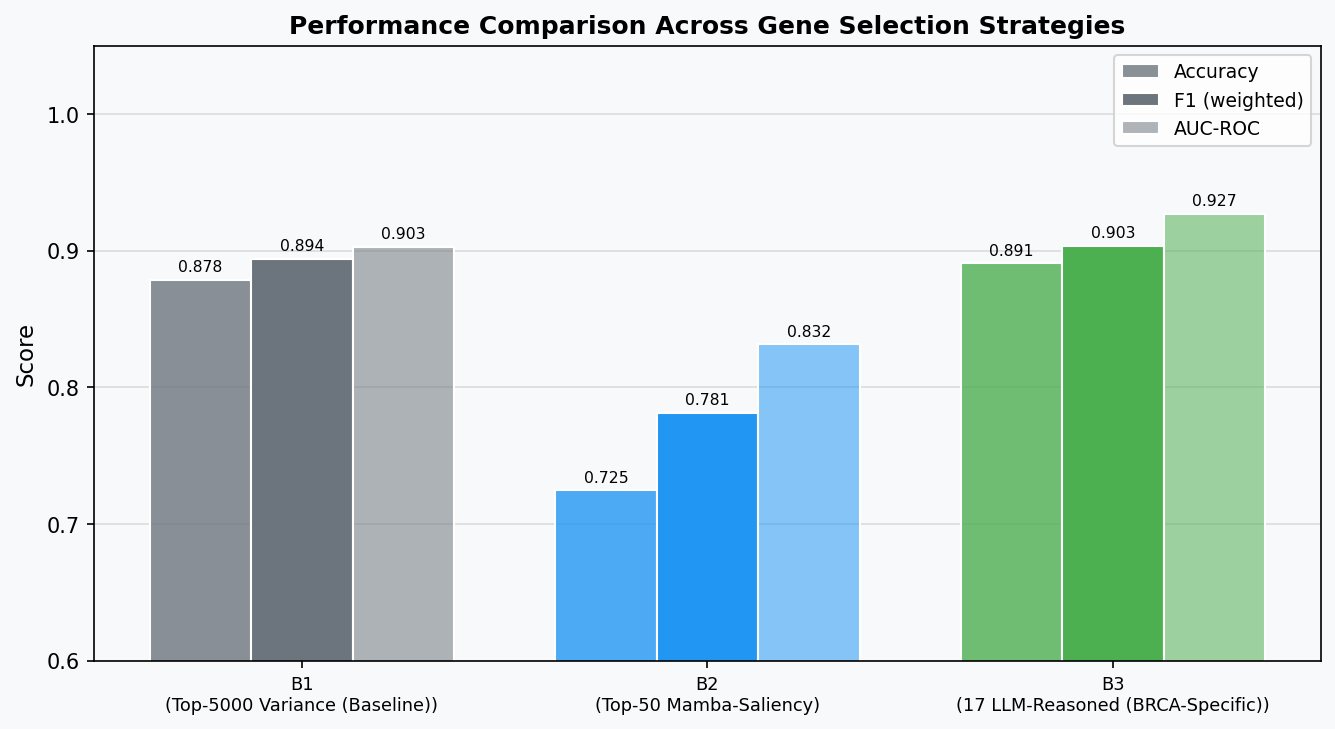
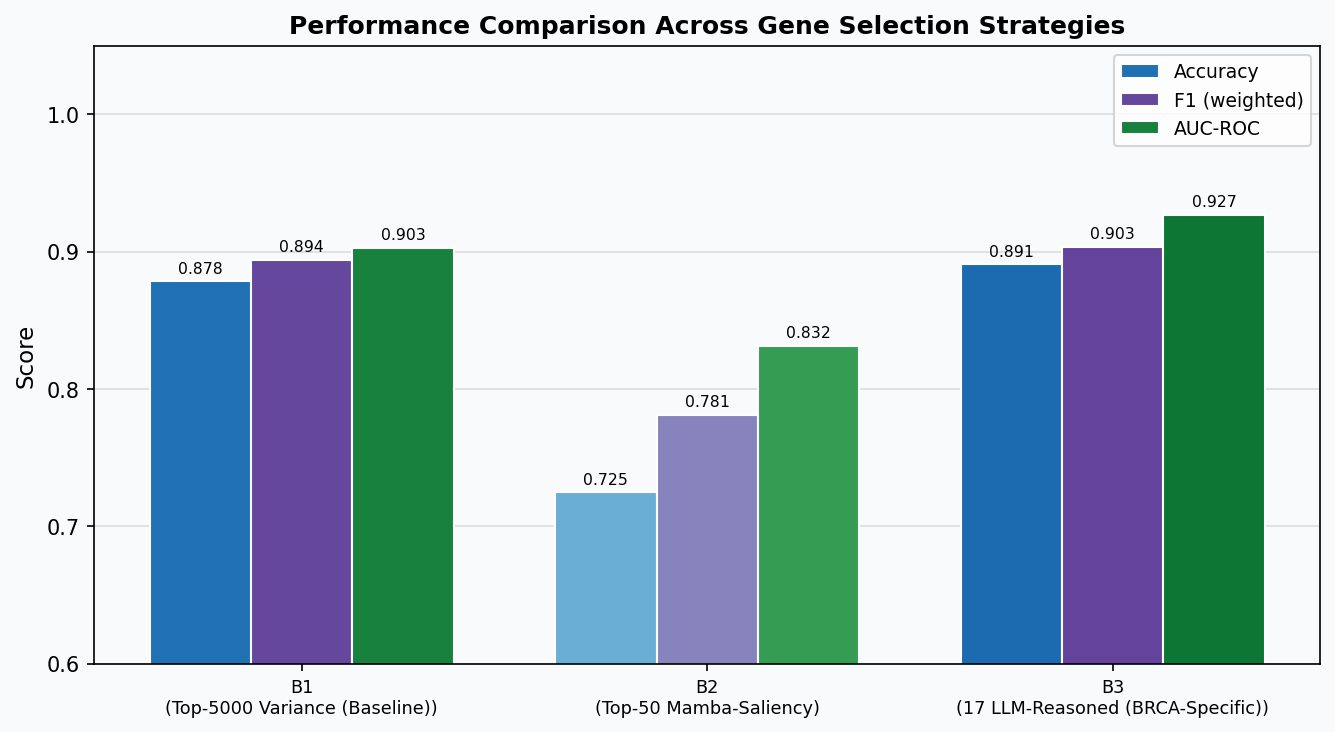
Update README and improve figures readability/styling

diff --git a/scripts/04_generate_figures.py b/scripts/04_generate_figures.py
@@ -14,6 +14,7 @@ matplotlib.use("Agg")
 import matplotlib.pyplot as plt
 import matplotlib.patches as mpatches
 import matplotlib.patheffects as pe
+from matplotlib.colors import Normalize
 import numpy as np
 
 SALIENCY_JSON  = "/data4t/projects/fs/data_processed/top_genes_saliency.json"
@@ -22,21 +23,21 @@ RESULTS_JSON   = "/data4t/projects/fs/results/comparison_results.json"
 FIG_DIR        = "/data4t/projects/fs/results/figures"
 os.makedirs(FIG_DIR, exist_ok=True)
 
-COLORS = {"B1": "#6c757d", "B2": "#2196F3", "B3": "#4CAF50"}
+COLORS = {"B1": "#64748B", "B2": "#2563EB", "B3": "#14B8A6"}
 
 
 # ─── Figure 1: Pipeline Flowchart ────────────────────────────────────────────
 def fig_pipeline():
     """Two-branch pipeline: shows LLM as a CAUSAL re-ranking step (B2 vs B3)."""
-    BW, BH = 2.3, 1.2   # box width, height
-    fig, ax = plt.subplots(figsize=(18, 9))
-    ax.set_xlim(0, 18)
-    ax.set_ylim(0, 9)
+    BW, BH = 3.1, 1.8   # box width, height (poster-large scale)
+    fig, ax = plt.subplots(figsize=(28, 14))
+    ax.set_xlim(0, 21)
+    ax.set_ylim(0, 10)
     ax.axis("off")
     ax.set_facecolor("#f0f4f8")
     fig.patch.set_facecolor("#f0f4f8")
 
-    def box(cx, cy, label, color, fs=8.5, bold=True, ec="#333", lw=1.5):
+    def box(cx, cy, label, color, fs=14, bold=True, ec="#333", lw=1.8):
         """Draw a rounded box centred at (cx, cy)."""
         p = mpatches.FancyBboxPatch(
             (cx - BW/2, cy - BH/2), BW, BH,
@@ -48,24 +49,25 @@ def fig_pipeline():
                 fontsize=fs, fontweight="bold" if bold else "normal",
                 zorder=4, multialignment="center")
 
-    def arrow(x0, y0, x1, y1, color="#333", lw=1.5, label="", label_side="bottom"):
+    def arrow(x0, y0, x1, y1, color="#333", lw=1.8, label="", label_side="bottom"):
         ax.annotate("", xy=(x1, y1), xytext=(x0, y0),
                     arrowprops=dict(arrowstyle="->", lw=lw, color=color))
         if label:
             mx, my = (x0 + x1) / 2, (y0 + y1) / 2
-            dy = -0.28 if label_side == "bottom" else 0.28
+            dy = -0.35 if label_side == "bottom" else 0.35
             dx = -0.35 if label_side == "left" else 0
             ax.text(mx + dx, my + dy, label, ha="center", va="center",
-                    fontsize=7, color="#555", style="italic")
+                    fontsize=12, color="#555", style="italic")
 
     # ── Row 1: main pipeline ──────────────────────────────────────
     # centres at y=7.0
-    Y_MAIN = 7.0
+    Y_MAIN = 7.3
     main_boxes = [
-        (1.4,  "TCGA-BRCA\nRNA-seq\n(~1100 samples,\n20 k genes)",    "#90CAF9"),
-        (4.1,  "Variance\nFilter\n(top 5 000\ngenes)",                  "#B0BEC5"),
-        (6.8,  "Mamba SSM\nClassifier\n(initial\ntraining)",            "#7986CB"),
-        (9.5,  "Gradient\nSaliency\nExtraction\n(top-50 genes)",        "#4DB6AC"),
+        (1.3,  "TCGA-BRCA\nRNA-seq\n(~1100 samples,\n20k genes)",       "#90CAF9"),
+        (3.1,  "log₂(TPM+1)\nNormalization\n(variance\nstabilisation)",  "#FFF9C4"),
+        (5.2,  "Variance\nFilter\n(top 5 000\ngenes)",                  "#B0BEC5"),
+        (7.5,  "Mamba SSM\nClassifier\n(initial\ntraining)",            "#7986CB"),
+        (10.0, "Gradient\nSaliency\nExtraction\n(top-50 genes)",        "#4DB6AC"),
     ]
     for cx, lbl, col in main_boxes:
         box(cx, Y_MAIN, lbl, col)
@@ -74,22 +76,23 @@ def fig_pipeline():
     gaps = [
         (main_boxes[0][0] + BW/2, main_boxes[1][0] - BW/2, ""),
         (main_boxes[1][0] + BW/2, main_boxes[2][0] - BW/2, ""),
-        (main_boxes[2][0] + BW/2, main_boxes[3][0] - BW/2, "saliency"),
+        (main_boxes[2][0] + BW/2, main_boxes[3][0] - BW/2, ""),
+        (main_boxes[3][0] + BW/2, main_boxes[4][0] - BW/2, "saliency"),
     ]
     for x0, x1, lbl in gaps:
         arrow(x0, Y_MAIN, x1, Y_MAIN, label=lbl)
 
     # ── Fork from saliency box ────────────────────────────────────
-    X_FORK = main_boxes[3][0] + BW/2    # right edge of saliency box ≈ 10.65
-    Y_B2   = 4.8
-    Y_B3   = 2.2
+    X_FORK = main_boxes[4][0] + BW/2    # right edge of saliency box ≈ 11.55
+    Y_B2   = 5.0
+    Y_B3   = 2.4
 
     # vertical splitter line
     ax.plot([X_FORK + 0.5, X_FORK + 0.5], [Y_B3, Y_MAIN],
-            color="#777", lw=1.4, ls="--", zorder=2)
+            color="#777", lw=1.7, ls="--", zorder=2)
     # dots at split
-    ax.plot(X_FORK + 0.5, Y_B2, "o", color="#777", ms=5, zorder=3)
-    ax.plot(X_FORK + 0.5, Y_B3, "o", color="#777", ms=5, zorder=3)
+    ax.plot(X_FORK + 0.5, Y_B2, "o", color="#777", ms=7, zorder=3)
+    ax.plot(X_FORK + 0.5, Y_B3, "o", color="#777", ms=7, zorder=3)
     # horizontal arrows from splitter to B2 and B3 first boxes
     arrow(X_FORK, Y_MAIN, X_FORK + 0.5, Y_MAIN)   # connect saliency box to splitter
     arrow(X_FORK + 0.5, Y_B2, X_FORK + 1.15, Y_B2,
@@ -112,8 +115,8 @@ def fig_pipeline():
     # causal annotation badge
     ax.text(X_LLM + BW/2 + 0.15, Y_B3 + 0.25,
             "⚡ CAUSAL\nSTEP", ha="left", va="center",
-            fontsize=7.5, fontweight="bold", color="#B71C1C",
-            bbox=dict(boxstyle="round,pad=0.15", fc="#FFEBEE", ec="#E53935", lw=1))
+            fontsize=12, fontweight="bold", color="#B71C1C",
+            bbox=dict(boxstyle="round,pad=0.18", fc="#FFEBEE", ec="#E53935", lw=1.3))
 
     # arrow: LLM → B3 retrain
     X_B3_TRAIN = X_LLM + BW/2 + 1.1 + BW/2    # ≈ 15.55
@@ -128,7 +131,7 @@ def fig_pipeline():
     Y_CMP = 0.75
     box(X_CMP, Y_CMP,
         "Performance\nComparison\nB1 / B2 / B3",
-        "#C8E6C9", ec="#388E3C", lw=2, fs=8)
+        "#C8E6C9", ec="#388E3C", lw=2.2, fs=12.5)
     # arrows from B2 and B3 to comparison
     arrow(X_B2_1, Y_B2 - BH/2, X_CMP, Y_CMP + BH/2 + 0.1,
           color="#2196F3", lw=1.3)
@@ -138,25 +141,25 @@ def fig_pipeline():
     # B1 baseline note
     ax.text(X_CMP, Y_CMP - BH/2 - 0.18,
             "+ B1 Baseline (top-5000 variance genes)",
-            ha="center", va="top", fontsize=7.5, color="#555", style="italic")
+            ha="center", va="top", fontsize=12, color="#555", style="italic")
 
     # ── Section labels ────────────────────────────────────────────
     ax.text(0.15, Y_MAIN + BH/2 + 0.22, "① Data & Feature Extraction",
-            fontsize=8, fontweight="bold", color="#1A237E", va="bottom")
+            fontsize=13, fontweight="bold", color="#1A237E", va="bottom")
     ax.text(X_FORK + 1.0, Y_B2 + BH/2 + 0.25, "② B2 — Mamba Only",
-            fontsize=8, fontweight="bold", color="#1565C0", va="bottom")
+            fontsize=13, fontweight="bold", color="#1565C0", va="bottom")
     ax.text(X_FORK + 1.0, Y_B3 + BH/2 + 0.25,
             "③ B3 — Mamba + LLM Reasoning (causal)",
-            fontsize=8, fontweight="bold", color="#B71C1C", va="bottom")
+            fontsize=13, fontweight="bold", color="#B71C1C", va="bottom")
 
     ax.set_title(
         "Mamba-SSM + LLM Reasoning Pipeline for BRCA Gene Biomarker Discovery\n"
         "LLM reasoning causally determines B3 gene set — not post-hoc explanation",
-        fontsize=12, fontweight="bold", pad=10
+        fontsize=22, fontweight="bold", pad=14
     )
-    plt.tight_layout(pad=1.0)
+    plt.tight_layout(pad=1.8)
     path = f"{FIG_DIR}/fig1_pipeline.png"
-    plt.savefig(path, bbox_inches="tight", dpi=180)
+    plt.savefig(path, bbox_inches="tight", dpi=360)
     print(f"Saved Fig 1 → {path}")
     plt.close()
 
@@ -174,12 +177,16 @@ def fig_comparison():
 
     x = np.arange(len(labels))
     w = 0.25
-    colors = [COLORS[l] for l in labels]
-
     fig, ax = plt.subplots(figsize=(9, 5))
-    b1 = ax.bar(x - w, acc, w, label="Accuracy", color=[c+"cc" for c in colors], edgecolor="white")
-    b2 = ax.bar(x,     f1,  w, label="F1 (weighted)", color=colors, edgecolor="white")
-    b3 = ax.bar(x + w, auc, w, label="AUC-ROC", color=[c+"88" for c in colors], edgecolor="white")
+    # Light-to-dark shading: higher score -> darker color
+    norm = Normalize(vmin=0.6, vmax=1.0)
+    acc_colors = [plt.cm.Blues(0.30 + 0.65 * norm(v)) for v in acc]
+    f1_colors  = [plt.cm.Purples(0.30 + 0.65 * norm(v)) for v in f1]
+    auc_colors = [plt.cm.Greens(0.30 + 0.65 * norm(v)) for v in auc]
+
+    b1 = ax.bar(x - w, acc, w, label="Accuracy", color=acc_colors, edgecolor="white")
+    b2 = ax.bar(x,     f1,  w, label="F1 (weighted)", color=f1_colors, edgecolor="white")
+    b3 = ax.bar(x + w, auc, w, label="AUC-ROC", color=auc_colors, edgecolor="white")
 
     for bars in [b1, b2, b3]:
         for bar in bars:
@@ -196,8 +203,8 @@ def fig_comparison():
     ax.legend(fontsize=9)
     ax.yaxis.grid(True, alpha=0.4)
     ax.set_axisbelow(True)
-    fig.patch.set_facecolor("#f8f9fa")
-    ax.set_facecolor("#f8f9fa")
+    fig.patch.set_facecolor("#f8fafc")
+    ax.set_facecolor("#f8fafc")
 
     plt.tight_layout()
     path = f"{FIG_DIR}/fig2_comparison.png"
@@ -273,7 +280,7 @@ def fig_cot():
         reason = _re.sub(r'\s+', ' ', reason)
         if gene in set(input_genes):
             decision = "Keep" if gene in kept_set else "Reject"
-            rows.append((gene, decision, reason[:95] + ('...' if len(reason) > 95 else '')))
+            rows.append((gene, decision, reason[:75] + ('...' if len(reason) > 75 else '')))
 
     # Fallback: build rows from input_genes if parser found nothing
     if not rows:
@@ -282,11 +289,11 @@ def fig_cot():
             rows.append((g, decision, "(see full_response in llm_gene_reasoning.json)"))
 
     n_rows  = len(rows)
-    row_h   = 0.38
-    hdr_h   = 1.5
+    row_h   = 0.50
+    hdr_h   = 2.25
     fig_h   = hdr_h + n_rows * row_h + 0.5
 
-    fig, ax = plt.subplots(figsize=(13, fig_h))
+    fig, ax = plt.subplots(figsize=(15.5, fig_h))
     ax.axis("off")
     fig.patch.set_facecolor("white")
     ax.set_facecolor("white")
@@ -296,26 +303,26 @@ def fig_cot():
     # ── Title ──
     ax.text(6.5, fig_h - 0.35,
             f"DeepSeek-R1 Per-Gene Biological Reasoning  (model: {data['model']})",
-            ha="center", va="top", fontsize=12, fontweight="bold", color="black")
+            ha="center", va="top", fontsize=14, fontweight="bold", color="black")
     ax.text(6.5, fig_h - 0.78,
             "Mamba selected top-50 genes by gradient saliency. "
             "LLM evaluated each gene for BRCA specificity — "
             "decisions causally determine the B3 training set.",
-            ha="center", va="top", fontsize=9.5, color="#222", style="italic")
+            ha="center", va="top", fontsize=11, color="#222", style="italic")
 
     # ── Column headers ──
     COL  = [0.25, 2.55, 4.35, 13.0]   # left-edge x positions
     CTRX = [1.38, 3.45, 8.65]          # centre x per column
     HDR  = ["Gene", "Decision", "Biological Justification / Pathway"]
-    hdr_y = fig_h - 1.22
+    hdr_y = fig_h - 1.80
     for hdr, cx in zip(HDR, CTRX):
         ax.text(cx, hdr_y, hdr, ha="center", va="center",
-                fontsize=10.5, fontweight="bold", color="black")
-    ax.axhline(hdr_y - 0.20, xmin=0.015, xmax=0.985, color="black", lw=1.1)
+                fontsize=12.5, fontweight="bold", color="black")
+    ax.axhline(hdr_y - 0.34, xmin=0.015, xmax=0.985, color="black", lw=1.1)
 
     # ── Rows ──
     for r_idx, (gene, decision, reason) in enumerate(rows):
-        y = hdr_y - 0.24 - r_idx * row_h
+        y = hdr_y - 0.85 - r_idx * row_h
         if r_idx % 2 == 0:
             bg = mpatches.FancyBboxPatch(
                 (0.15, y - row_h * 0.50), 12.7, row_h * 0.96,
@@ -326,19 +333,19 @@ def fig_cot():
 
         # Gene name
         ax.text(COL[0] + 0.1, y, gene, ha="left", va="center",
-                fontsize=9.5, fontweight="bold", color="black", zorder=2)
+            fontsize=11, fontweight="bold", color="black", zorder=2)
 
         # Decision symbol — bold, slightly larger
         sym  = "✓ Keep" if decision == "Keep" else "✗ Reject"
         ax.text(CTRX[1], y, sym, ha="center", va="center",
-                fontsize=9.5, fontweight="bold", color="black", zorder=2)
+            fontsize=11.5, fontweight="bold", color="black", zorder=2)
 
         # Reason
         ax.text(COL[2] + 0.1, y, reason, ha="left", va="center",
-                fontsize=8.5, color="#111", zorder=2)
+            fontsize=10, color="#111", zorder=2)
 
     # ── Bottom border ──
-    bot = hdr_y - 0.24 - n_rows * row_h + row_h * 0.46
+    bot = hdr_y - 0.85 - n_rows * row_h + row_h * 0.46
     ax.axhline(bot, xmin=0.015, xmax=0.985, color="black", lw=0.8)
     ax.add_patch(mpatches.FancyBboxPatch(
         (0.15, bot), 12.7, (hdr_y - bot + 0.24),
@@ -348,7 +355,7 @@ def fig_cot():
 
     plt.tight_layout(pad=0.4)
     path = f"{FIG_DIR}/fig4_cot.png"
-    plt.savefig(path, bbox_inches="tight", dpi=200)
+    plt.savefig(path, bbox_inches="tight", dpi=260)
     print(f"Saved Fig 4 → {path}")
     plt.close()
 

diff --git a/README.md b/README.md
@@ -4,9 +4,9 @@
 
 This repository implements the pipeline described in:
 
-Mamba_SSM_with_LLM_Reasoning_for_Biomarker_Discovery__Causal_Feature_Refinement_via_Chain_of_Thought_Gene_Evaluation.pdf
+[Mamba_SSM_with_LLM_Reasoning_for_Biomarker_Discovery.pdf](paper/Mamba_SSM_with_LLM_Reasoning_for_Biomarker_Discovery.pdf)
 
-The workflow is:
+The workflow:
 
 ```
 TCGA-BRCA RNA-seq (~20k genes)
@@ -16,6 +16,10 @@ TCGA-BRCA RNA-seq (~20k genes)
     -> Final 17-gene BRCA-specific subset
     -> 3-way benchmark (B1/B2/B3)
 ```
+
+### System Pipeline Figure
+
+![System Pipeline](results/figures/f1g_pipeline1.png)
 
 ## Paper Results (Held-Out Test Split)
 
